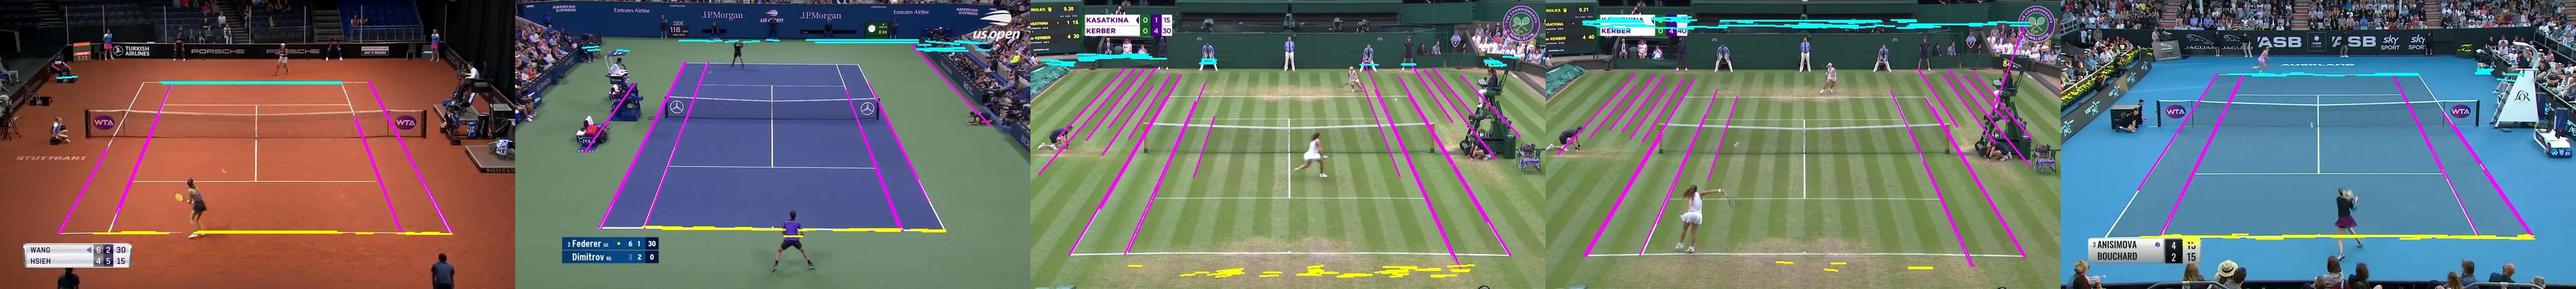
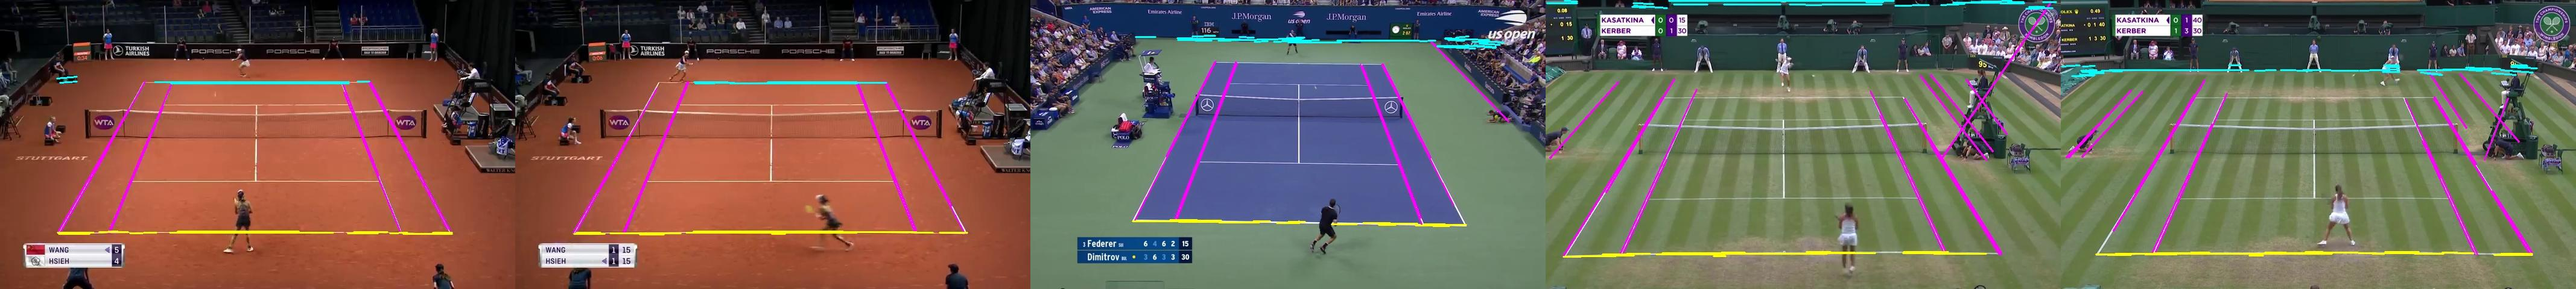
new iteration

diff --git a/_posts/2022-09-26-court-detection-4.md b/_posts/2022-09-26-court-detection-4.md
@@ -8,5 +8,11 @@ date:   2022-09-26 12:00:00 -0400
 Spent today thinking up an iterative approach at finding the lines which make up the boundary of the court. Somewhat begrudgingly, I've turned to clustering the Hough lines which pass the initial block filter (absolute slope between 1 and 3). It's a univariate hierarchical clustering strategy using lines' absolute slope, followed by a filtering of all lines which are part of the two largest clusters, then taking the minimum median absolute slope from these two largest groups (usually the largest median absolute slope is the inner lengthwise lines and the smallest is the outter lines).
 </p>
 <p>
-Also! To remind myself: the camera is mostly static. This means there should be a quick, efficient check to see if it has moved from the previous frame. Off the top of my head, I can run the Hough line algo each frame and if the lengthwise lines are nearly identical then keep the same coordinate system and move to the next frame.
+Also, to remind myself: the camera is mostly static. This means there should be a quick, efficient check to see if it has moved from the previous frame. Off the top of my head, I can run the Hough line algo each frame and if the lengthwise lines are nearly identical then keep the same coordinate system and move to the next frame.
+</p>
+<b>Results (Iteration 2)</b>
+<p>
+<div style="text-align: center"> 
+<img src="https://spazznolo.github.io/figs/hough-collage-2.jpg" width="90%" length="300"/>
+</div>
 </p>
